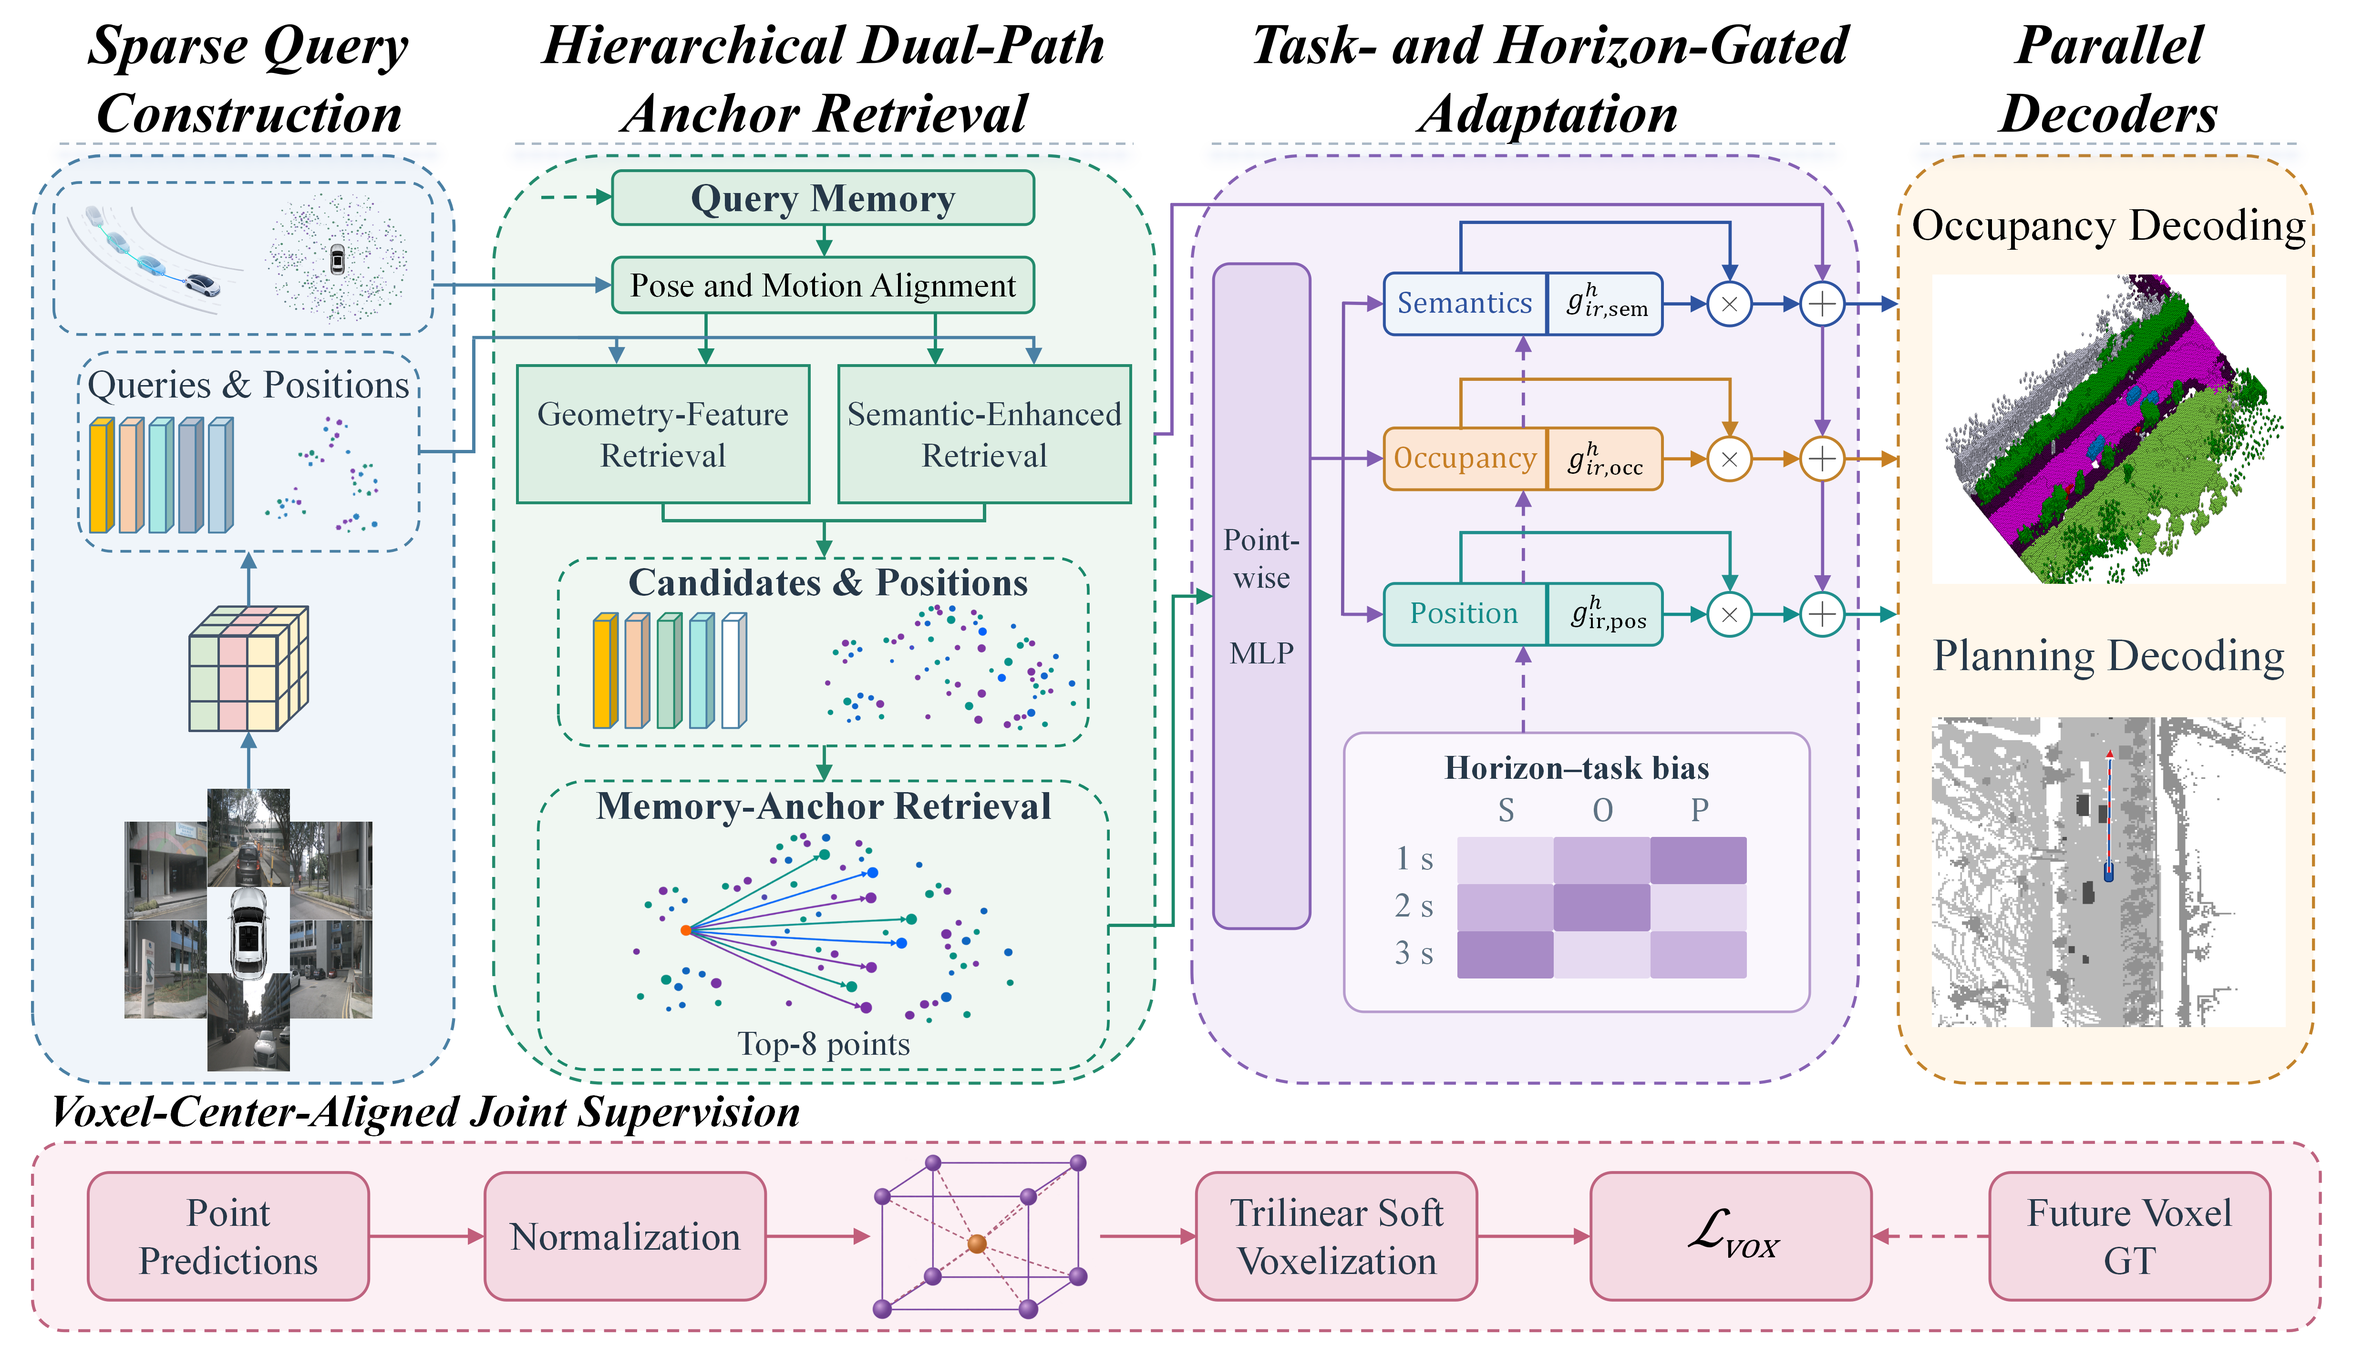
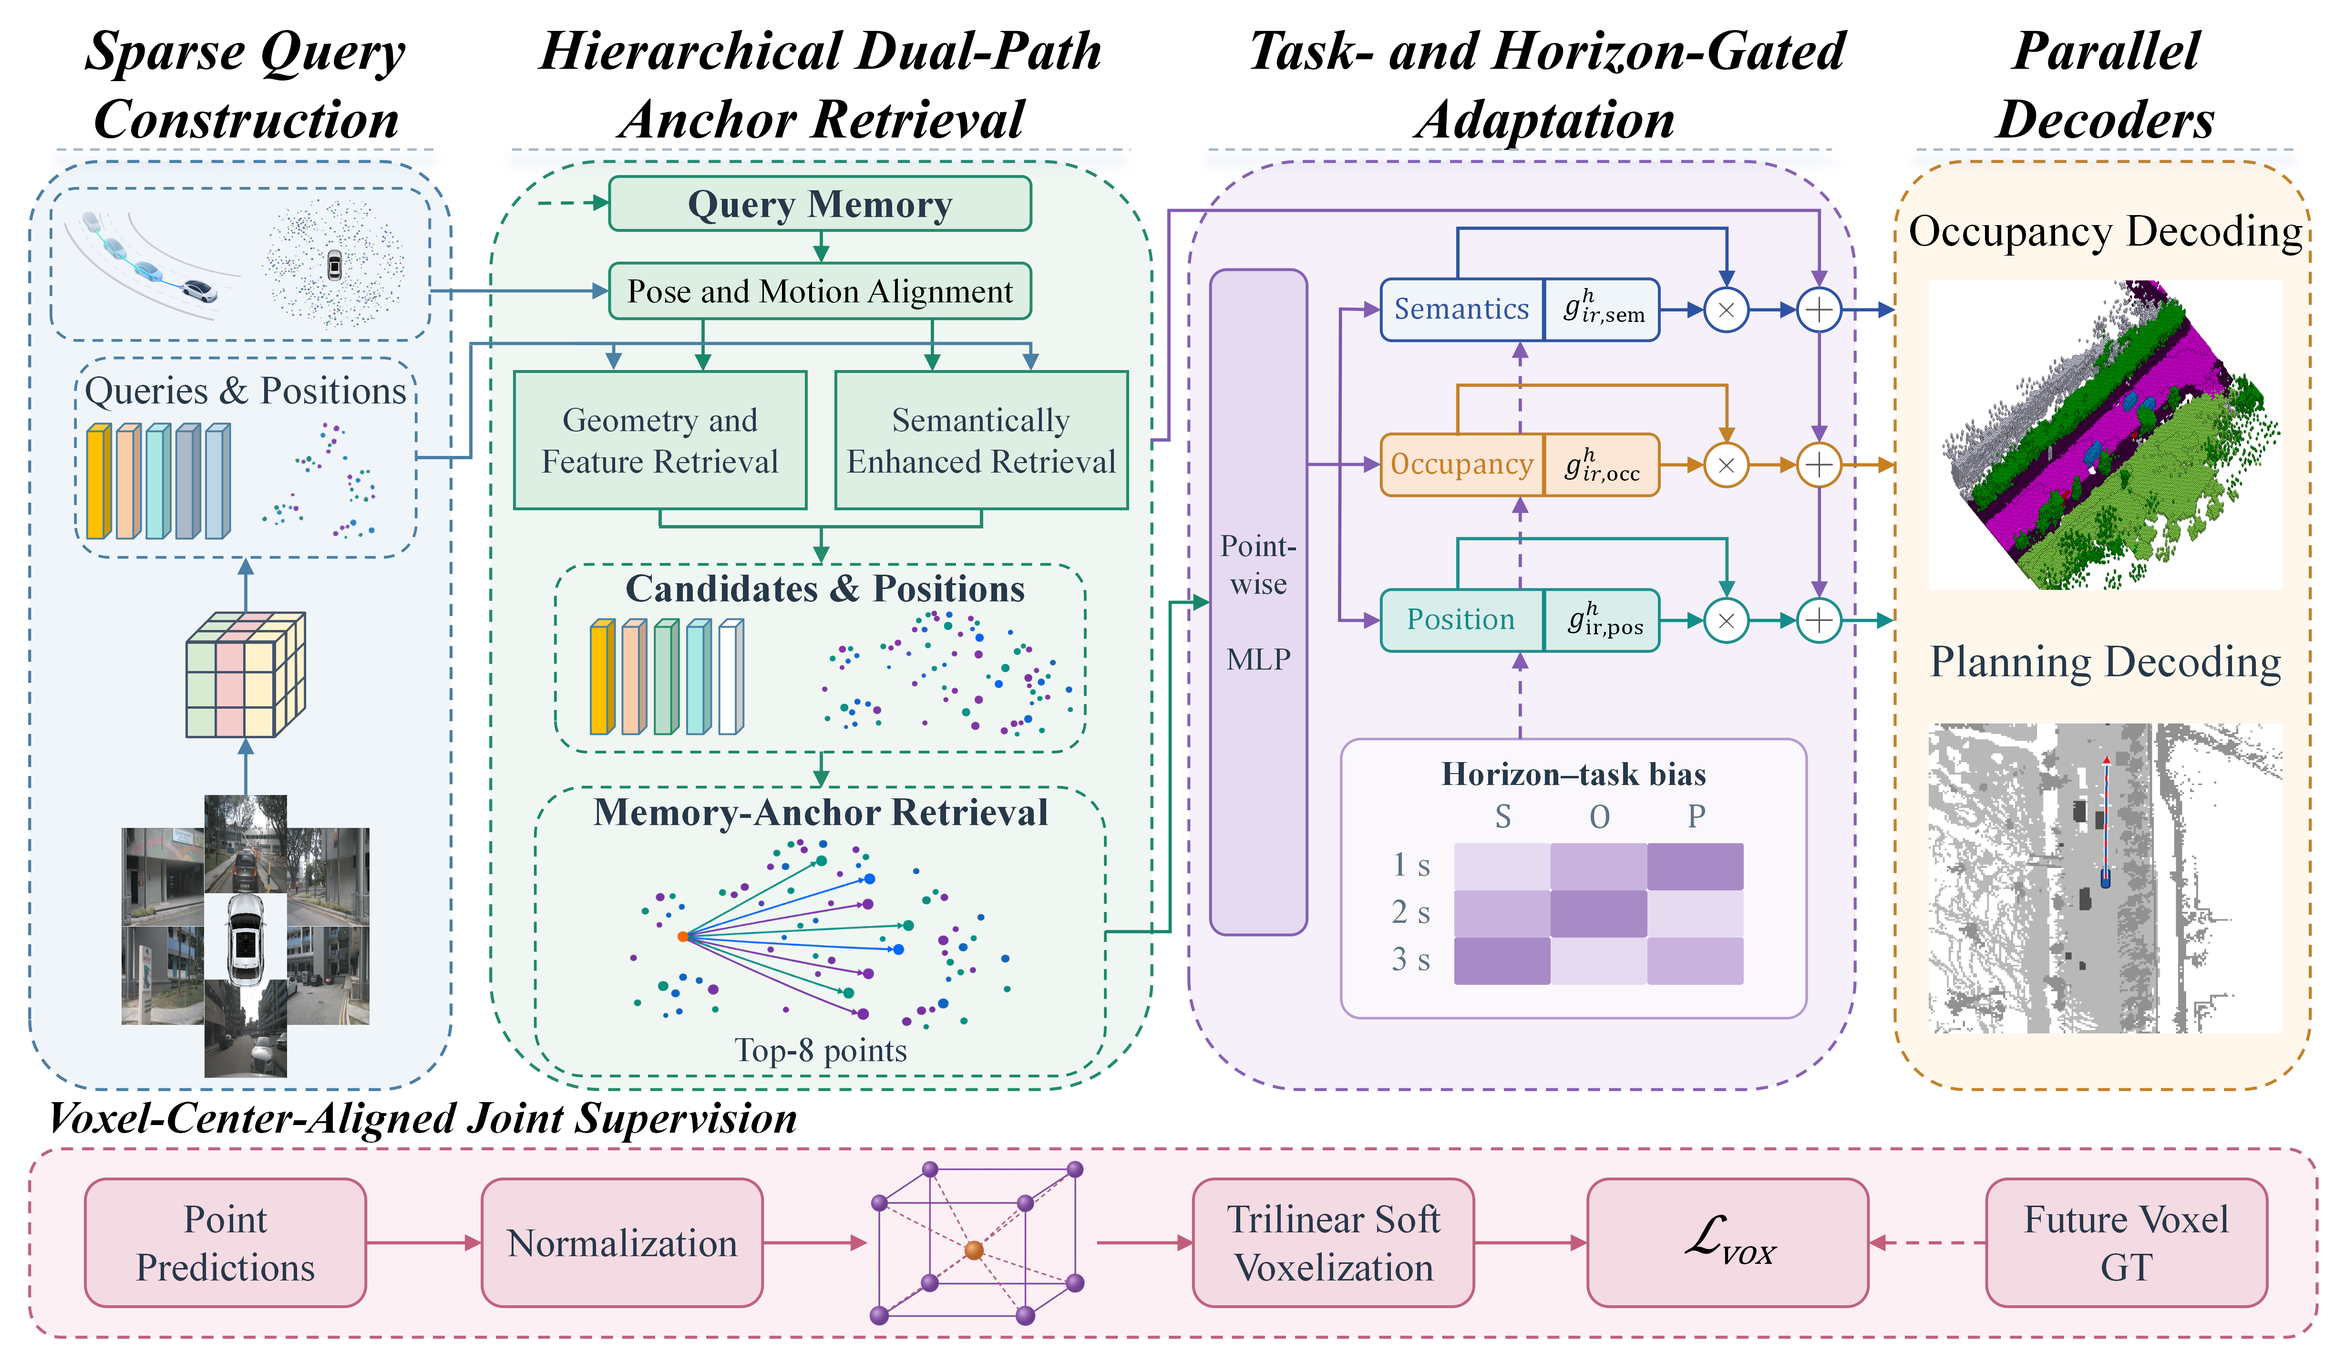
Update framework figure to latest supplied version

diff --git a/index.html b/index.html
@@ -15,7 +15,7 @@
     <main id="top">
       <section class="hero" aria-labelledby="project-title"><div class="hero-inner"><h1 id="project-title">MemAnchorWorld: A Sparse World Model with Horizon-Conditioned Memory Retrieval for Autonomous Driving</h1><div class="hero-actions"><a aria-label="Open the anonymous MemAnchorWorld code repository" class="code-button" href="https://anonymous.4open.science/r/MemAnchorWorld-1158/" rel="noopener noreferrer" target="_blank"><svg aria-hidden="true" focusable="false" viewbox="0 0 24 24"><path d="M12 .6a11.4 11.4 0 0 0-3.61 22.21c.57.1.78-.25.78-.55v-2.15c-3.18.69-3.85-1.34-3.85-1.34-.52-1.32-1.27-1.67-1.27-1.67-1.04-.71.08-.7.08-.7 1.15.08 1.76 1.18 1.76 1.18 1.02 1.75 2.68 1.25 3.33.95.1-.74.4-1.25.73-1.54-2.54-.29-5.21-1.27-5.21-5.67 0-1.25.45-2.27 1.18-3.07-.12-.29-.51-1.45.11-3.03 0 0 .96-.31 3.15 1.17A10.9 10.9 0 0 1 12 6.02c.97 0 1.94.13 2.85.38 2.19-1.48 3.15-1.17 3.15-1.17.62 1.58.23 2.74.11 3.03.73.8 1.18 1.82 1.18 3.07 0 4.41-2.68 5.38-5.23 5.66.41.36.78 1.08.78 2.18v3.24c0 .3.2.66.79.55A11.4 11.4 0 0 0 12 .6Z"></path></svg><span>Code</span></a></div><div class="hero-metrics" aria-label="Key results"><div><strong>13.55%</strong><span>Avg. mIoU</span></div><div><strong>22.84%</strong><span>Avg. IoU</span></div><div><strong>0.20 m</strong><span>Avg. L<sub>2</sub></span></div><div><strong>0.10%</strong><span>Avg. Box Collision</span></div></div><div class="hero-rule" aria-hidden="true"><span></span></div></div></section>
       <section aria-labelledby="abstract-title" class="section abstract-section" id="abstract"><div class="section-heading"><h2 id="abstract-title">Abstract</h2></div><div class="abstract-card"><p>Sparse world models for 4D semantic occupancy forecasting represent scenes with a small set of evolving queries to efficiently predict future geometry and semantics for autonomous driving. However, existing sparse world models face a <strong>bottleneck in using historical temporal evidence for long-horizon forecasting</strong>. They rely on scene states to carry historical information implicitly, allowing errors to propagate and accumulate across successive forecasting steps and causing geometric and semantic deviations. To address this limitation, we present <strong>MemAnchorWorld</strong>, a sparse occupancy world model that explicitly retrieves relevant historical geometric and semantic evidence for 4D semantic occupancy forecasting. Inspired by the von Restorff effect, we introduce a <strong>forecast-time-conditioned hierarchical dual-path memory-anchor retrieval mechanism</strong>. Guided by the effective age and semantic compatibility of historical information, it combines query-level candidate selection with point-level memory-anchor retrieval to provide historical evidence for sparse points at different forecast times. To better use memory anchors and existing features, <strong>a point-level residual adapter jointly gated by the task and forecast time</strong> separately controls residual corrections to semantics, occupancy confidence, and spatial positions. On Occ3D-nuScenes, MemAnchorWorld achieves an average mIoU of 13.55% and an average IoU of 22.84% across the 1–3 s forecasting horizons, attaining state-of-the-art performance on both metrics. Project page: <a href="https://memanchorworld.github.io/">https://memanchorworld.github.io/</a>.</p></div></section>
-      <section aria-labelledby="method-title" class="section" id="method"><div class="section-heading"><h2 id="method-title">Method Overview</h2><p class="section-lead">Retrieve historical memory anchors to refine sparse future predictions.</p></div><figure class="figure-card"><a aria-label="Open the Method Overview figure at full resolution" class="image-link" href="memanchorworld_framework.png?v=ed8f3f2035c6" rel="noopener" target="_blank"><img alt="MemAnchorWorld architecture with historical sparse-query memory, horizon-conditioned hierarchical dual-path retrieval, residual correction, and voxel-center-aligned joint supervision." height="2843" loading="eager" src="memanchorworld_framework.png?v=ed8f3f2035c6" width="4934"/></a><figcaption>Historical evidence guides gated corrections to semantics, occupancy confidence, and point positions.</figcaption></figure></section>
+      <section aria-labelledby="method-title" class="section" id="method"><div class="section-heading"><h2 id="method-title">Method Overview</h2><p class="section-lead">Retrieve historical memory anchors to refine sparse future predictions.</p></div><figure class="figure-card"><a aria-label="Open the Method Overview figure at full resolution" class="image-link" href="memanchorworld_framework.png?v=eac4a082e344" rel="noopener" target="_blank"><img alt="MemAnchorWorld architecture with historical sparse-query memory, horizon-conditioned hierarchical dual-path retrieval, residual correction, and voxel-center-aligned joint supervision." height="2858" loading="eager" src="memanchorworld_framework.png?v=eac4a082e344" width="4918"/></a><figcaption>Historical evidence guides gated corrections to semantics, occupancy confidence, and point positions.</figcaption></figure></section>
       <section aria-labelledby="results-title" class="section" id="results"><div class="section-heading"><h2 id="results-title">Results</h2><p class="section-lead">Occupancy forecasting, motion planning, and component analysis on Occ3D-nuScenes.</p></div><div class="result-block" id="occupancy-forecasting"><div class="result-label"><span>Occupancy Forecasting</span><span class="dataset-tag">Occ3D-nuScenes</span></div><div class="table-frame"><div aria-label="Occupancy Forecasting results table; scroll horizontally on narrow screens" class="table-scroll" tabindex="0"><table><caption>4D occupancy forecasting on Occ3D-nuScenes. All models use camera input. Baseline values, including averages, are taken from the corresponding publications. All values are percentages; parentheses show gains over SparseWorld in percentage points.</caption><thead><tr><th rowspan="2" scope="col">Method</th><th rowspan="2" scope="col">Aux. Sup.</th><th colspan="4" scope="colgroup">mIoU ↑</th><th colspan="4" scope="colgroup">IoU ↑</th></tr><tr><th scope="col">1s</th><th scope="col">2s</th><th scope="col">3s</th><th scope="col">Avg.</th><th scope="col">1s</th><th scope="col">2s</th><th scope="col">3s</th><th scope="col">Avg.</th></tr></thead><tbody><tr><th scope="row">OccWorld-S</th><td>None</td><td>0.28</td><td>0.26</td><td>0.24</td><td>0.26</td><td>5.05</td><td>5.01</td><td>4.95</td><td>5.00</td></tr><tr><th scope="row">RenderWorld</th><td>None</td><td>2.83</td><td>2.55</td><td>2.37</td><td>2.58</td><td>14.61</td><td>13.61</td><td>12.98</td><td>13.73</td></tr><tr><th scope="row">OccWorld-T</th><td>Semantic<br/>LiDAR</td><td>4.68</td><td>3.36</td><td>2.63</td><td>3.56</td><td>9.32</td><td>8.23</td><td>7.47</td><td>8.34</td></tr><tr><th scope="row">OccWorld-D</th><td>3D Occ</td><td>11.55</td><td>8.10</td><td>6.22</td><td>8.62</td><td>18.90</td><td>16.26</td><td>14.43</td><td>16.53</td></tr><tr><th scope="row">PreWorld</th><td>3D Occ</td><td>11.69</td><td>8.72</td><td>6.77</td><td>9.06</td><td>23.01</td><td>20.79</td><td>18.84</td><td>20.88</td></tr><tr><th scope="row">PreWorld</th><td>2D &amp; 3D Occ</td><td>12.27</td><td>9.24</td><td>7.15</td><td>9.55</td><td><u>23.62</u></td><td>21.62</td><td>19.63</td><td>21.62</td></tr><tr><th scope="row">DFIT-OccWorld</th><td>3D Occ</td><td>13.38</td><td>10.16</td><td>7.96</td><td>10.50</td><td>19.18</td><td>16.85</td><td>15.02</td><td>17.02</td></tr><tr><th scope="row">SparseWorld</th><td>3D Occ</td><td><u>14.93</u></td><td><u>13.15</u></td><td><u>11.51</u></td><td><u>13.20</u></td><td>22.96</td><td><u>22.10</u></td><td><u>21.05</u></td><td><u>22.03</u></td></tr><tr class="ours"><th scope="row"><strong>MemAnchorWorld</strong></th><td>3D Occ</td><td><strong>15.39</strong> (<span class="metric-gain">↑0.46</span>)</td><td><strong>13.40</strong> (<span class="metric-gain">↑0.25</span>)</td><td><strong>11.87</strong> (<span class="metric-gain">↑0.36</span>)</td><td><strong>13.55</strong> (<span class="metric-gain">↑0.35</span>)</td><td><strong>23.88</strong> (<span class="metric-gain">↑0.92</span>)</td><td><strong>22.86</strong> (<span class="metric-gain">↑0.76</span>)</td><td><strong>21.78</strong> (<span class="metric-gain">↑0.73</span>)</td><td><strong>22.84</strong> (<span class="metric-gain">↑0.81</span>)</td></tr></tbody></table></div></div></div><div class="result-block" id="motion-planning"><div class="result-label"><span>Motion Planning</span><span class="dataset-tag">Occ3D-nuScenes</span></div><div class="table-frame"><div aria-label="Motion Planning results table; scroll horizontally on narrow screens" class="table-scroll" tabindex="0"><table><caption>Motion planning on Occ3D-nuScenes. The two metric groups report L<sub>2</sub> error and box collision rate, respectively. Baseline values, including averages, follow the corresponding publications.</caption><thead><tr><th rowspan="2" scope="col">Method</th><th rowspan="2" scope="col">Aux. Sup.</th><th colspan="4" scope="colgroup">L<sub>2</sub> (m) ↓</th><th colspan="4" scope="colgroup">Box Collision (%) ↓</th></tr><tr><th scope="col">1s</th><th scope="col">2s</th><th scope="col">3s</th><th scope="col">Avg.</th><th scope="col">1s</th><th scope="col">2s</th><th scope="col">3s</th><th scope="col">Avg.</th></tr></thead><tbody><tr><th scope="row">UniAD</th><td>Map, Box,<br/>Motion, Track,<br/>3D Occ</td><td>0.48</td><td>0.96</td><td>1.65</td><td>1.03</td><td><strong>0.05</strong></td><td><u>0.17</u></td><td>0.71</td><td>0.31</td></tr><tr><th scope="row">VAD</th><td>Map, Box,<br/>Motion</td><td>0.54</td><td>1.15</td><td>1.98</td><td>1.22</td><td>0.10</td><td>0.24</td><td>0.96</td><td>0.43</td></tr><tr><th scope="row">OccNet</th><td>Map, Box,<br/>3D Occ</td><td>1.29</td><td>2.13</td><td>2.99</td><td>2.14</td><td>0.21</td><td>0.59</td><td>1.37</td><td>0.72</td></tr><tr><th scope="row">OccWorld-D</th><td>3D Occ</td><td>0.52</td><td>1.27</td><td>2.41</td><td>1.40</td><td>0.12</td><td>0.40</td><td>2.08</td><td>0.87</td></tr><tr><th scope="row">RenderWorld-V</th><td>3D Occ</td><td>0.48</td><td>1.30</td><td>2.67</td><td>1.48</td><td>0.14</td><td>0.55</td><td>2.23</td><td>0.97</td></tr><tr><th scope="row">PreWorld</th><td>2D &amp;<br/>3D Occ</td><td>0.22</td><td>0.30</td><td>0.40</td><td>0.31</td><td>0.21</td><td>0.66</td><td>0.71</td><td>0.53</td></tr><tr><th scope="row">SparseWorld</th><td>3D Occ</td><td><u>0.19</u></td><td><u>0.25</u></td><td><u>0.36</u></td><td><u>0.27</u></td><td>0.11</td><td>0.29</td><td><u>0.46</u></td><td><u>0.29</u></td></tr><tr class="ours"><th scope="row"><strong>MemAnchorWorld</strong></th><td>3D Occ</td><td><strong>0.16</strong></td><td><strong>0.19</strong></td><td><strong>0.24</strong></td><td><strong>0.20</strong></td><td><u>0.09</u></td><td><strong>0.10</strong></td><td><strong>0.11</strong></td><td><strong>0.10</strong></td></tr></tbody></table></div></div></div><div class="result-block" id="mechanism-diagnosis"><div class="result-label"><span>Mechanism Diagnosis</span><span class="dataset-tag">Occ3D-nuScenes</span></div><div class="table-frame"><div aria-label="Mechanism Diagnosis results table; scroll horizontally on narrow screens" class="table-scroll" tabindex="0"><table class="compact-table"><caption>Historical-memory diagnosis on points with valid retrieved support whose uncorrected positions lie in occupied ground-truth voxels.</caption><thead><tr><th scope="col">Horizon</th><th scope="col" title="Historical complementarity: correct historical semantics among incorrect base predictions.">Hist. compl.</th><th scope="col" title="WC correction: corrected predictions among points with a wrong base prediction and correct history.">WC correction</th><th scope="col" title="CW retention: correct predictions retained when the base prediction is correct and history is wrong.">CW retention</th></tr></thead><tbody><tr><th scope="row">1 s</th><td>25.25%</td><td>9.57%</td><td>97.47%</td></tr><tr><th scope="row">2 s</th><td>24.29%</td><td>11.12%</td><td>97.19%</td></tr><tr><th scope="row">3 s</th><td>23.19%</td><td>12.58%</td><td>96.64%</td></tr></tbody></table></div></div></div><div class="result-block" id="core-component-ablation"><div class="result-label"><span>Core Component Ablation</span><span class="dataset-tag">Occ3D-nuScenes</span></div><div class="table-frame"><div aria-label="Core Component Ablation results table; scroll horizontally on narrow screens" class="table-scroll" tabindex="0"><table class="compact-table"><caption>Ablation studies of core model components.</caption><thead><tr><th scope="col">Memory<br/>retrieval</th><th scope="col">Task–horizon<br/>gating</th><th scope="col">Avg. mIoU ↑</th><th scope="col">Avg. IoU ↑</th></tr></thead><tbody><tr><th scope="row">-</th><td>-</td><td>13.20</td><td>22.03</td></tr><tr><th scope="row">-</th><td>✓</td><td>13.31</td><td>22.34</td></tr><tr><th scope="row">✓</th><td>-</td><td>13.24</td><td>22.25</td></tr><tr class="ours"><th scope="row">✓</th><td>✓</td><td>13.55</td><td>22.84</td></tr></tbody></table></div></div></div></section>
       <section aria-labelledby="visualizations-title" class="section" id="visualizations"><div class="section-heading"><h2 id="visualizations-title">Visualizations</h2></div><div class="visual-grid"><figure class="figure-card" id="occupancy-visualization"><a aria-label="Open the 4D occupancy visualization at full resolution" class="image-link" href="memanchorworld_qualitative.png?v=deec8cec6834" rel="noopener" target="_blank"><img alt="4D semantic occupancy forecasting: ground truth, SparseWorld, and MemAnchorWorld at 0, 1, 2, and 3 seconds, with red boxes highlighting local differences." height="3098" loading="lazy" src="memanchorworld_qualitative.png?v=deec8cec6834" width="5632"/></a><figcaption><strong>4D Occupancy Forecasting.</strong> Red boxes highlight reduced semantic errors in future predictions.</figcaption></figure><figure class="figure-card"><a aria-label="Open the motion planning visualization at full resolution" class="image-link" href="planning_sequence_01.png?v=56915a323c14" rel="noopener" target="_blank"><img alt="Motion planning for going straight, turning left, and turning right, shown in three rows across six horizons from 0.5 to 3.0 seconds." height="1860" loading="lazy" src="planning_sequence_01.png?v=56915a323c14" width="3600"/></a><figcaption><strong>Motion Planning.</strong> Predicted ego trajectories from 0.5 to 3.0 s.</figcaption></figure></div><figure class="figure-card video-card"><video aria-label="MemAnchorWorld qualitative autonomous driving sequence" class="project-video" controls="" playsinline="" preload="metadata"><source src="scene-0094_full_smooth.mp4?v=66b9323e5f8d" type="video/mp4"/>Your browser does not support embedded video. <a href="scene-0094_full_smooth.mp4?v=66b9323e5f8d">Open the video file</a>.</video><p class="video-fallback" hidden="" id="video-fallback" role="status">Video unavailable. <a href="scene-0094_full_smooth.mp4?v=66b9323e5f8d">Open the video file</a>.</p><figcaption><strong>Video Preview.</strong></figcaption></figure></section>
     </main><footer class="site-footer"><div class="footer-inner"><span>MemAnchorWorld</span><span>Anonymous project page</span></div></footer>
